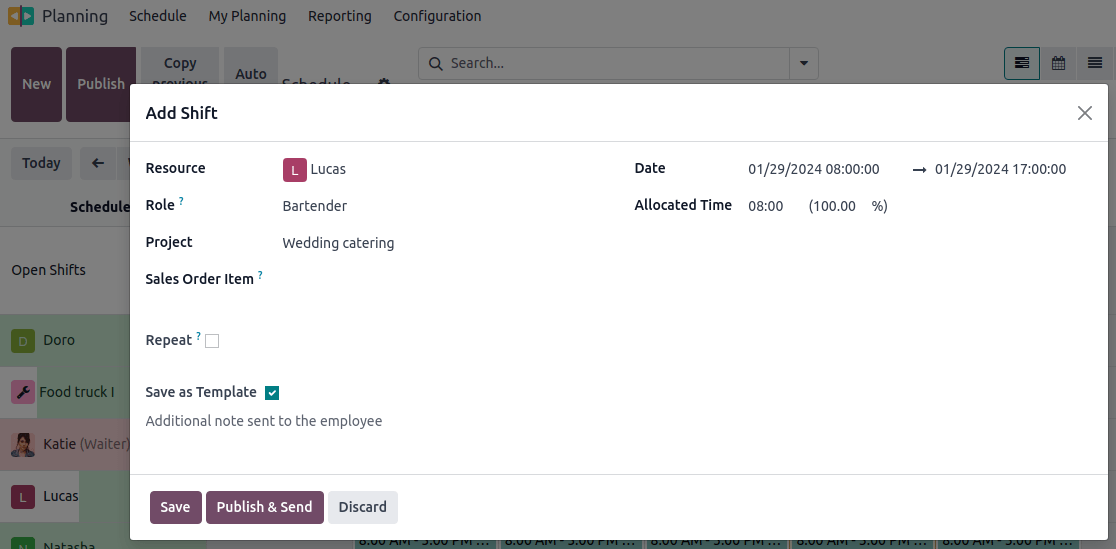
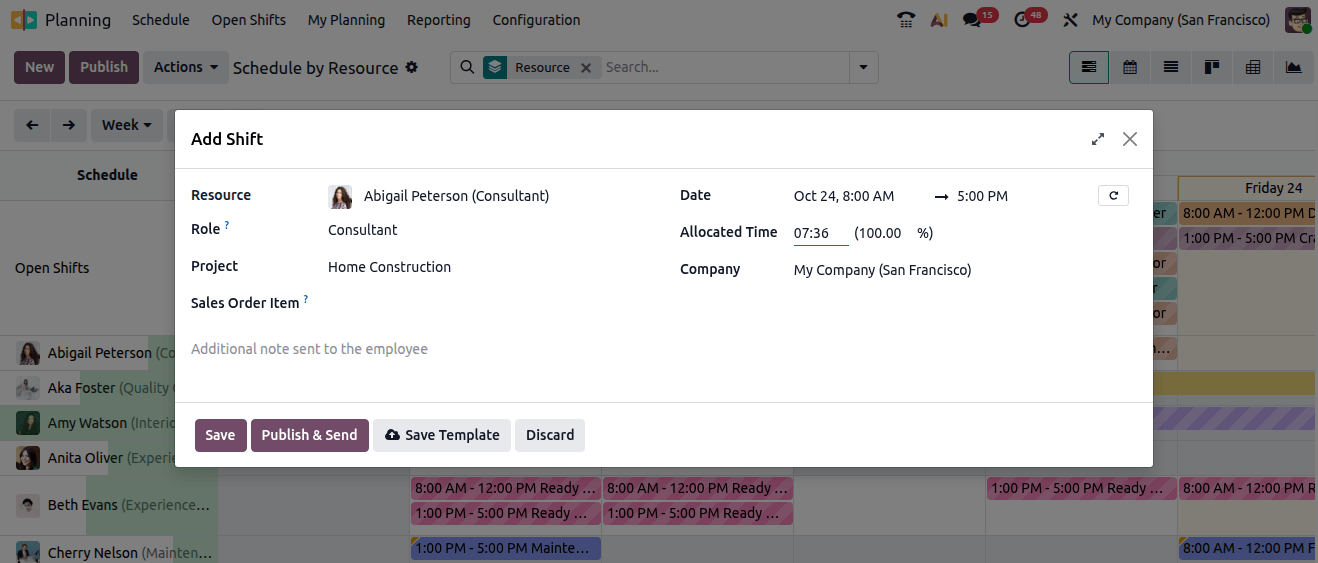
[IMP] planning: small changes to better reflect user interface since V18
task-5162730

X-original-commit: 49a4782acc104c536357f2b81f1fab9a49ccfb55

diff --git a/content/applications/services/planning.rst b/content/applications/services/planning.rst
@@ -150,14 +150,14 @@ Shift templates
 
 To create a shift template, click :guilabel:`New` on any schedule, then fill in the
 :ref:`details of the shift <planning/create-shift>`. In order for the shift to be saved as a
-template, tick :guilabel:`Save as Template`.
+template, click :guilabel:`Save Template`.
 
 .. image:: planning/save-template.png
-   :alt: Shift form with the option `save template` ticked.
+   :alt: Shift form.
 
 Alternatively, you can go to :menuselection:`Planning --> Configuration --> Shift Templates`, then
-click :guilabel:`New`. Fill in the :guilabel:`Start Hour` and :guilabel:`Shift Duration`. The
-shift’s :guilabel:`End Time` is then calculated based on the :guilabel:`Working Hours`, taking into
+click :guilabel:`New`. Fill in the :guilabel:`Start Hour` and :guilabel:`Span`. The shift’s
+:guilabel:`End Time` is then calculated based on the :guilabel:`Working Hours`, taking into
 account working time as well as breaks.
 
 .. example::
@@ -222,8 +222,9 @@ fill in the following details:
   work on the selected project.
 - :guilabel:`Sales Order Item`: If the Sales app is installed in your database, this field allows
   you to link a sales order to the shift.
-- :guilabel:`Repeat`: Tick the checkbox and configure the :guilabel:`Repeat Every` field according
-  to your needs. The following rules apply to recurring shifts:
+- :guilabel:`Repeat`: Click the :icon:`fa-repeat` :guilabel:`(repeat)` button and configure the
+  :guilabel:`Repeat every` fields according to your needs. The following rules apply to recurring
+  shifts:
 
   - All fields (e.g., :guilabel:`Resource`, :guilabel:`Role`, :guilabel:`Project`) are copied from
     the original shift except for the date, which is adjusted according to the
@@ -234,9 +235,6 @@ fill in the following details:
     go to :menuselection:`Planning --> Configuration --> Settings` and edit the
     :guilabel:`Recurring Shifts`.
 
-- :guilabel:`Save as Template`: When this option is ticked, a shift template is created with the
-  same :guilabel:`Start and End hours`, :guilabel:`Allocated time`, :guilabel:`Role`,
-  and :guilabel:`Project`.
 - :guilabel:`Additional note sent to the employee`: Click on the field to add a note.
 - :guilabel:`Date`: Choose the date and time of your shift. This is the only mandatory field when
   creating a shift.
